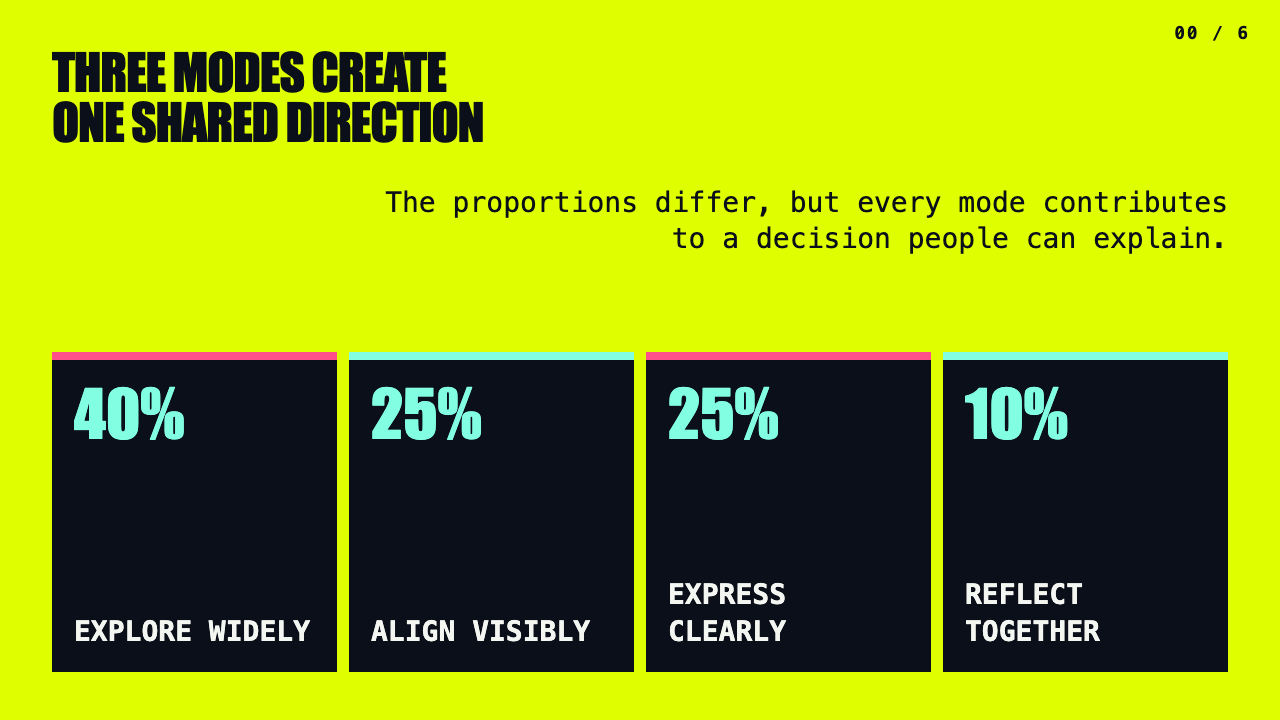
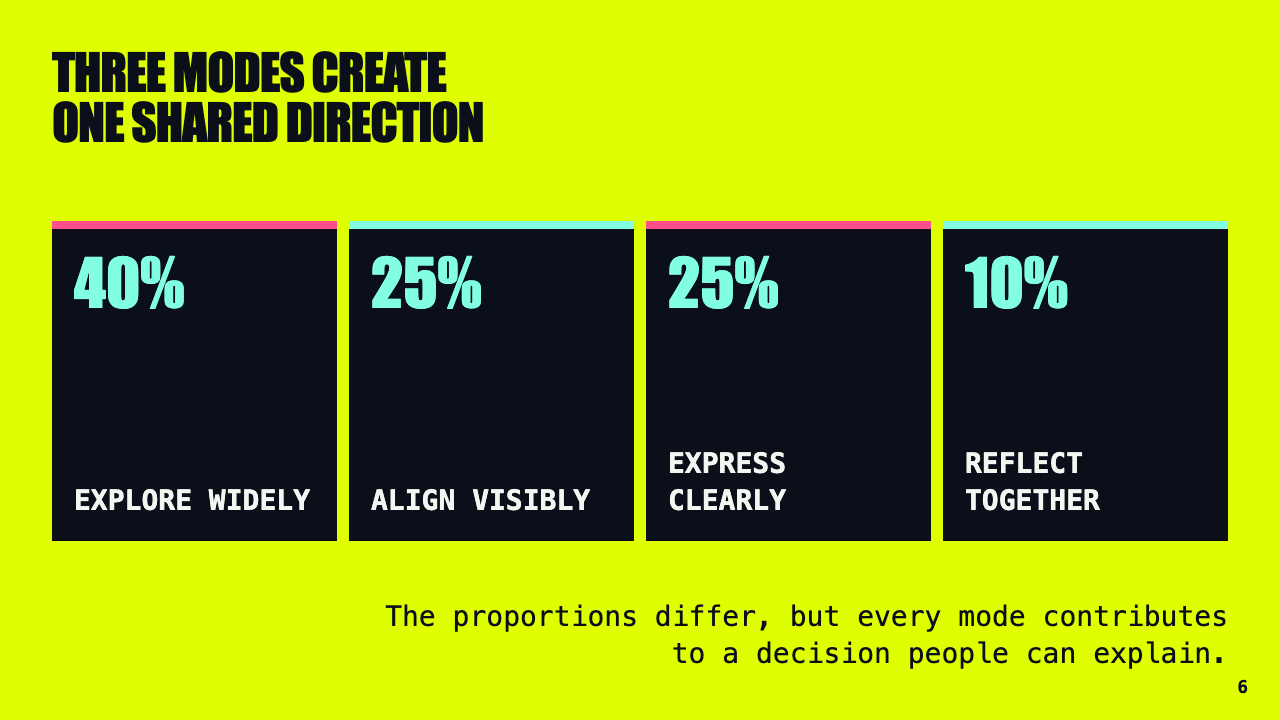
Refine presentation theme palettes, layout consistency, and gallery
Fixes two real rendering bugs already baked into the approved gallery
(Field Notes' title underline overlapping a 2-line subtitle, and
Signal/Compact Signal's data slide leaving a dead gap when no chart is
supplied), standardizes Signal's pagination to match the other three
themes, and codifies each theme's palette so declared colors always
match what actually renders (three colors were declared but unused).

Extends the public gallery to the two missing archetypes (Section,
Diagram) and restructures docs/presentation-themes.md into one
side-by-side comparison table per Slide Archetype instead of a long
stack of single-theme images, so the four themes can be scanned
against each other directly.

While wiring the comparison link into the Discovery theme-choice step,
found Compact Signal was fully built and validated everywhere else but
never actually offered as a choice in discover-presentation's question
list — added it alongside a link to the new comparison gallery.

Claude-Session: https://claude.ai/code/session_01VrnGkkFAn5SoMmdVhA5meG

diff --git a/skills/presentation/generate-slides/themes/compact-signal/theme.css b/skills/presentation/generate-slides/themes/compact-signal/theme.css
@@ -6,12 +6,11 @@
   --compact-mid-blue: #005b91;
   --compact-bright-blue: #009fe3;
   --compact-teal: #00ab84;
-  --compact-red: #e83f53;
   --compact-red-strong: #b4233a;
   --compact-yellow: #f7b715;
   --compact-paper: #f7f7f7;
   --compact-white: #ffffff;
-  --compact-gray: #828282;
+  --compact-gray: #333333;
   --compact-display: "Source Serif Pro", Georgia, serif;
   --compact-body: "Source Sans Pro", Arial, Helvetica, sans-serif;
 }
@@ -59,7 +58,7 @@ section li { margin: 4px 0; }
 .sr-only { position: absolute !important; width: 1px !important; height: 1px !important; overflow: hidden !important; clip: rect(0, 0, 0, 0) !important; }
 .slot-label, .slot-context { color: var(--compact-mid-blue); font-size: 18px; font-weight: 700; letter-spacing: .1em; text-transform: uppercase; }
 .slot-subtitle, .slot-orientation, .slot-takeaway { font-size: 28px; }
-.slot-caption, .slot-attribution { color: #333333; font-size: 20px; }
+.slot-caption, .slot-attribution { color: var(--compact-gray); font-size: 20px; }
 .slot-media { min-width: 0; min-height: 0; overflow: hidden; }
 .slot-media img, .slot-media svg { display: block; width: 100%; height: 100%; object-fit: cover; }
 
@@ -109,14 +108,14 @@ section.archetype-text-plus-image.variation-full-image .slot-caption { display: 
 section.archetype-data { grid-template: auto 1fr auto / 1fr; gap: 14px; background: var(--compact-blue); color: var(--compact-white); }
 section.archetype-data::after { color: var(--compact-yellow); }
 section.archetype-data .slot-label { color: var(--compact-yellow); }
-section.archetype-data .slot-metrics { display: grid; grid-template-columns: repeat(4, minmax(0, 1fr)); gap: 8px; }
+section.archetype-data .slot-metrics { grid-row: 2; display: grid; grid-template-columns: repeat(4, minmax(0, 1fr)); gap: 8px; align-self: center; }
 section.archetype-data .slot-media { grid-row: 2; width: 100%; min-height: 260px; padding: 12px; background: #0b3c61; border: 2px solid var(--compact-bright-blue); }
 section.archetype-data .slot-media img, section.archetype-data .slot-media svg { object-fit: contain; }
 section.archetype-data .metric { display: flex; flex-direction: column; min-height: 260px; padding: 16px; background: var(--compact-white); color: var(--compact-blue); border-top: 5px solid var(--compact-mid-blue); }
 section.archetype-data .metric:nth-child(2n) { border-color: var(--compact-red-strong); }
 section.archetype-data .metric strong { color: var(--compact-mid-blue); font: 700 48px/1 var(--presentation-font-override, var(--compact-display)); }
 section.archetype-data .metric span { margin-top: auto; font-size: 28px; font-weight: 700; }
-section.archetype-data .slot-takeaway { color: var(--compact-white); }
+section.archetype-data .slot-takeaway { grid-row: 3; color: var(--compact-white); }
 
 section.archetype-diagram { grid-template: auto 1fr auto / 1fr; gap: 12px; }
 section.archetype-diagram .slot-heading { max-width: 900px; }

diff --git a/skills/presentation/generate-slides/themes/signal/theme.css b/skills/presentation/generate-slides/themes/signal/theme.css
@@ -7,6 +7,7 @@
   --signal-acid: #dfff00;
   --signal-cyan: #82ffe2;
   --signal-magenta: #ff4f8b;
+  --signal-muted: #c9d2df;
   --signal-display: Impact, "Arial Black", sans-serif;
   --signal-body: Arial, Helvetica, sans-serif;
   --signal-mono: Menlo, Consolas, monospace;
@@ -44,9 +45,9 @@ section [class*="slot-"] { min-width: 0; }
 
 section::after {
   position: absolute;
-  top: 24px;
   right: 30px;
-  content: counter(marpit-slide, decimal-leading-zero) " / " attr(data-marpit-pagination);
+  bottom: 24px;
+  content: attr(data-marpit-pagination);
   color: var(--signal-cyan);
   font: 700 18px/1 var(--presentation-font-override, var(--signal-mono));
   letter-spacing: 0.1em;
@@ -101,7 +102,7 @@ section li { margin: 8px 0; }
 .slot-media { min-width: 0; min-height: 0; overflow: hidden; }
 .slot-media img,
 .slot-media svg { display: block; width: 100%; height: 100%; object-fit: cover; }
-.slot-caption { color: #c9d2df; line-height: 1.25; }
+.slot-caption { color: var(--signal-muted); line-height: 1.25; }
 
 section.archetype-title {
   grid-template: auto 1fr auto / 64% 36%;
@@ -196,7 +197,7 @@ section.archetype-data {
 }
 section.archetype-data::after { color: var(--signal-dark); }
 section.archetype-data .slot-label { color: var(--signal-dark); }
-section.archetype-data .slot-metrics { display: grid; grid-template-columns: repeat(4, minmax(0, 1fr)); gap: 12px; }
+section.archetype-data .slot-metrics { grid-row: 2; display: grid; grid-template-columns: repeat(4, minmax(0, 1fr)); gap: 12px; align-self: center; }
 section.archetype-data .slot-media { grid-row: 2; width: 100%; min-height: 320px; padding: 18px; background: var(--signal-dark); border: 3px solid var(--signal-cyan); }
 section.archetype-data .slot-media img,
 section.archetype-data .slot-media svg { object-fit: contain; filter: none; }
@@ -204,7 +205,7 @@ section.archetype-data .metric { display: flex; flex-direction: column; min-heig
 section.archetype-data .metric:nth-child(2n) { border-color: var(--signal-cyan); }
 section.archetype-data .metric strong { color: var(--signal-cyan); font: 900 64px/1 var(--presentation-font-override, var(--signal-display)); }
 section.archetype-data .metric span { margin-top: auto; font: 700 28px/1.3 var(--presentation-font-override, var(--signal-mono)); text-transform: uppercase; }
-section.archetype-data .slot-takeaway { font-family: var(--presentation-font-override, var(--signal-mono)); text-align: right; }
+section.archetype-data .slot-takeaway { grid-row: 3; font-family: var(--presentation-font-override, var(--signal-mono)); text-align: right; }
 
 section.archetype-diagram { grid-template: auto 1fr auto / 1fr; gap: 18px; }
 section.archetype-diagram .slot-heading { max-width: 1000px; }

diff --git a/skills/presentation/generate-slides/themes/field-notes/theme.css b/skills/presentation/generate-slides/themes/field-notes/theme.css
@@ -8,6 +8,7 @@
   --field-mustard: #8b6a00;
   --field-sage: #63775e;
   --field-light: #f7f2e7;
+  --field-muted: #405444;
   --field-display: Georgia, "Times New Roman", serif;
   --field-body: "Trebuchet MS", Arial, sans-serif;
 }
@@ -93,25 +94,17 @@ section li { margin: 8px 0; }
 .slot-media { min-width: 0; min-height: 0; overflow: hidden; }
 .slot-media img,
 .slot-media svg { display: block; width: 100%; height: 100%; object-fit: cover; }
-.slot-caption { color: #405444; font-family: var(--presentation-font-override, var(--field-display)); font-style: italic; line-height: 1.25; }
+.slot-caption { color: var(--field-muted); font-family: var(--presentation-font-override, var(--field-display)); font-style: italic; line-height: 1.25; }
 
 section.archetype-title {
   grid-template: auto 1fr auto / 58% 42%;
   gap: 24px 40px;
   padding-top: 70px;
 }
-section.archetype-title::before {
-  position: absolute;
-  left: 56px;
-  bottom: 58px;
-  width: 370px;
-  border-top: 8px solid var(--field-mustard);
-  content: "";
-  transform: rotate(-1deg);
-}
 section.archetype-title .slot-label { grid-row: 1; grid-column: 1; align-self: start; }
 section.archetype-title .slot-title { grid-row: 2; grid-column: 1; align-self: center; font-size: 82px; }
 section.archetype-title .slot-subtitle { grid-row: 3; grid-column: 1; max-width: 650px; padding-left: 18px; border-left: 6px solid var(--field-coral); }
+section.archetype-title .slot-subtitle::after { display: block; width: 370px; margin-top: 24px; border-top: 8px solid var(--field-mustard); content: ""; transform: rotate(-1deg); }
 section.archetype-title .slot-media {
   grid-row: 1 / 4;
   grid-column: 2;

diff --git a/skills/presentation/generate-slides/themes/editorial/theme.css b/skills/presentation/generate-slides/themes/editorial/theme.css
@@ -5,8 +5,9 @@
   --editorial-paper: #eee8dc;
   --editorial-ink: #321f2e;
   --editorial-coral: #c63f32;
-  --editorial-gold: #8b7620;
+  --editorial-gold: #d3bd65;
   --editorial-light: #fffaf0;
+  --editorial-muted: #5a4653;
   --editorial-display: Georgia, "Times New Roman", serif;
   --editorial-body: Arial, Helvetica, sans-serif;
 }
@@ -107,7 +108,7 @@ section li { margin: 8px 0; }
 
 .slot-caption {
   padding-top: 10px;
-  color: #5a4653;
+  color: var(--editorial-muted);
   font-family: var(--presentation-font-override, var(--editorial-display));
   font-style: italic;
   line-height: 1.25;
@@ -259,6 +260,6 @@ section.archetype-quotation::before {
   opacity: 0.7;
 }
 section.archetype-quotation::after { color: var(--editorial-light); }
-section.archetype-quotation .slot-context { position: relative; z-index: 1; color: #d3bd65; }
+section.archetype-quotation .slot-context { position: relative; z-index: 1; color: var(--editorial-gold); }
 section.archetype-quotation .slot-quote { position: relative; z-index: 1; max-width: 980px; font-size: 62px; line-height: 1.08; }
 section.archetype-quotation .slot-attribution { position: relative; z-index: 1; margin-top: 28px; color: var(--editorial-light); font-weight: 700; }

diff --git a/skills/presentation/docs/presentation-themes.md b/skills/presentation/docs/presentation-themes.md
@@ -14,113 +14,55 @@ Every example below contains the same content and uses the same production rende
 
 The sample artwork was AI-generated for this comparison and is reused unchanged across all themes. The themes control its placement, crop, framing, and treatment—not its underlying artistic style.
 
+Each row below is one Slide Archetype rendered in all four themes, so you can scan across a row to compare treatments directly, or down a column to see one theme's range.
+
 ### Title
 
-#### Editorial
+| Editorial | Signal | Compact Signal | Field Notes |
+| --- | --- | --- | --- |
+| ![Editorial title slide on a warm cream canvas with an asymmetric serif headline, fine red rule, circular portrait frame, and restrained page furniture](assets/presentation-themes/editorial-title.png) | ![Signal title slide on a near-black technical grid with a condensed uppercase headline, cyan label, pink rule, and sharply angled portrait panel](assets/presentation-themes/signal-title.png) | ![Compact Signal title slide on a dark blue canvas with a compact serif headline, yellow label, teal rule, and supportive portrait panel](assets/presentation-themes/compact-signal-title.png) | ![Field Notes title slide on textured cream paper with a green serif headline, red handwritten label, gold underline, and loosely taped portrait print](assets/presentation-themes/field-notes-title.png) |
 
-![Editorial title slide on a warm cream canvas with an asymmetric serif headline, fine red rule, circular portrait frame, and restrained page furniture](assets/presentation-themes/editorial-title.png)
+### Section break
 
-#### Signal
-
-![Signal title slide on a near-black technical grid with a condensed uppercase headline, cyan label, pink rule, and sharply angled portrait panel](assets/presentation-themes/signal-title.png)
-
-#### Compact Signal
-
-![Compact Signal title slide on a dark blue canvas with a compact serif headline, yellow label, teal rule, and supportive portrait panel](assets/presentation-themes/compact-signal-title.png)
-
-#### Field Notes
-
-![Field Notes title slide on textured cream paper with a green serif headline, red handwritten label, gold underline, and loosely taped portrait print](assets/presentation-themes/field-notes-title.png)
+| Editorial | Signal | Compact Signal | Field Notes |
+| --- | --- | --- | --- |
+| ![Editorial section slide on a warm cream canvas with a thin vertical rule, a large red numeral, and a restrained serif title](assets/presentation-themes/editorial-section.png) | ![Signal section slide with a cyan numeral column, an acid-yellow field, and a bold condensed uppercase title](assets/presentation-themes/signal-section.png) | ![Compact Signal section slide with a yellow numeral column, a dark blue field, and a compact white serif title](assets/presentation-themes/compact-signal-section.png) | ![Field Notes section slide on textured cream paper with a sage-ringed circular numeral badge and a green serif title](assets/presentation-themes/field-notes-section.png) |
 
 ### Plan with bullet points
 
-#### Editorial
-
-![Editorial text-only slide with a large serif heading and a wider numbered bullet list](assets/presentation-themes/editorial-text-only.png)
-
-#### Signal
-
-![Signal text-only slide with a bold condensed heading and a wide numbered bullet list on a dark grid](assets/presentation-themes/signal-text-only.png)
-
-#### Compact Signal
-
-![Compact Signal text-only slide with a compact serif heading and a wide numbered bullet list](assets/presentation-themes/compact-signal-text-only.png)
-
-#### Field Notes
-
-![Field Notes text-only slide with a natural serif heading and a wide arrow-led bullet list on textured paper](assets/presentation-themes/field-notes-text-only.png)
+| Editorial | Signal | Compact Signal | Field Notes |
+| --- | --- | --- | --- |
+| ![Editorial text-only slide with a large serif heading and a wider numbered bullet list](assets/presentation-themes/editorial-text-only.png) | ![Signal text-only slide with a bold condensed heading and a wide numbered bullet list on a dark grid](assets/presentation-themes/signal-text-only.png) | ![Compact Signal text-only slide with a compact serif heading and a wide numbered bullet list](assets/presentation-themes/compact-signal-text-only.png) | ![Field Notes text-only slide with a natural serif heading and a wide arrow-led bullet list on textured paper](assets/presentation-themes/field-notes-text-only.png) |
 
 ### Text plus image
 
-#### Editorial
-
-![Editorial text-plus-image slide with a compact serif heading and bullet list on the left, a clean portrait frame on the right, and an italic caption below](assets/presentation-themes/editorial-text-plus-image.png)
-
-#### Signal
-
-![Signal text-plus-image slide with an uppercase heading and neon rule on the left, a dark grid canvas, and a tall angled portrait treatment on the right](assets/presentation-themes/signal-text-plus-image.png)
-
-#### Compact Signal
-
-![Compact Signal text-plus-image slide with a tightly packed sans-serif bullet list, teal rule, and narrow supportive image panel](assets/presentation-themes/compact-signal-text-plus-image.png)
-
-#### Field Notes
-
-![Field Notes text-plus-image slide with a taped portrait print on the left, serif heading and bullets on the right, and a handwritten-style caption beneath the image](assets/presentation-themes/field-notes-text-plus-image.png)
+| Editorial | Signal | Compact Signal | Field Notes |
+| --- | --- | --- | --- |
+| ![Editorial text-plus-image slide with a compact serif heading and bullet list on the left, a clean portrait frame on the right, and an italic caption below](assets/presentation-themes/editorial-text-plus-image.png) | ![Signal text-plus-image slide with an uppercase heading and neon rule on the left, a dark grid canvas, and a tall angled portrait treatment on the right](assets/presentation-themes/signal-text-plus-image.png) | ![Compact Signal text-plus-image slide with a tightly packed sans-serif bullet list, teal rule, and narrow supportive image panel](assets/presentation-themes/compact-signal-text-plus-image.png) | ![Field Notes text-plus-image slide with a taped portrait print on the left, serif heading and bullets on the right, and a handwritten-style caption beneath the image](assets/presentation-themes/field-notes-text-plus-image.png) |
 
 ### Full-bleed image
 
-#### Editorial
-
-![Editorial full-image slide with a serif title over a full-bleed landscape image and a warm coral overlay](assets/presentation-themes/editorial-full-image.png)
-
-#### Signal
-
-![Signal full-image slide with an uppercase title over a full-bleed landscape image, dark grid, and acid rule](assets/presentation-themes/signal-full-image.png)
-
-#### Compact Signal
-
-![Compact Signal full-image slide with a serif title over a full-bleed landscape image and dark blue overlay](assets/presentation-themes/compact-signal-full-image.png)
-
-#### Field Notes
-
-![Field Notes full-image slide with a serif title over a full-bleed landscape image and natural green overlay](assets/presentation-themes/field-notes-full-image.png)
+| Editorial | Signal | Compact Signal | Field Notes |
+| --- | --- | --- | --- |
+| ![Editorial full-image slide with a serif title over a full-bleed landscape image and a warm coral overlay](assets/presentation-themes/editorial-full-image.png) | ![Signal full-image slide with an uppercase title over a full-bleed landscape image, dark grid, and acid rule](assets/presentation-themes/signal-full-image.png) | ![Compact Signal full-image slide with a serif title over a full-bleed landscape image and dark blue overlay](assets/presentation-themes/compact-signal-full-image.png) | ![Field Notes full-image slide with a serif title over a full-bleed landscape image and natural green overlay](assets/presentation-themes/field-notes-full-image.png) |
 
 ### Data
 
-#### Editorial
+| Editorial | Signal | Compact Signal | Field Notes |
+| --- | --- | --- | --- |
+| ![Editorial data slide with a large serif heading in a narrow left column and four measured cream metric cells arranged as a red-ruled grid](assets/presentation-themes/editorial-data.png) | ![Signal data slide with a fluorescent yellow canvas, condensed black heading, and four near-black metric cards separated by cyan and pink accents](assets/presentation-themes/signal-data.png) | ![Compact Signal data slide with a dark blue canvas, four compact white metric cards, and blue chart panel](assets/presentation-themes/compact-signal-data.png) | ![Field Notes data slide with a green serif heading, gold underline, italic takeaway, and four softly colored hand-drawn oval metrics](assets/presentation-themes/field-notes-data.png) |
 
-![Editorial data slide with a large serif heading in a narrow left column and four measured cream metric cells arranged as a red-ruled grid](assets/presentation-themes/editorial-data.png)
+### Diagram
 
-#### Signal
-
-![Signal data slide with a fluorescent yellow canvas, condensed black heading, and four near-black metric cards separated by cyan and pink accents](assets/presentation-themes/signal-data.png)
-
-#### Compact Signal
-
-![Compact Signal data slide with a dark blue canvas, four compact white metric cards, and blue chart panel](assets/presentation-themes/compact-signal-data.png)
-
-#### Field Notes
-
-![Field Notes data slide with a green serif heading, gold underline, italic takeaway, and four softly colored hand-drawn oval metrics](assets/presentation-themes/field-notes-data.png)
+| Editorial | Signal | Compact Signal | Field Notes |
+| --- | --- | --- | --- |
+| ![Editorial diagram slide with an aubergine serif heading and a protected cream diagram panel holding rounded, colored process boxes](assets/presentation-themes/editorial-diagram.png) | ![Signal diagram slide with a condensed white heading on a dark grid and a cyan-bordered protected diagram panel](assets/presentation-themes/signal-diagram.png) | ![Compact Signal diagram slide with a dark blue serif heading and a blue-bordered protected diagram panel](assets/presentation-themes/compact-signal-diagram.png) | ![Field Notes diagram slide on textured paper with a green serif heading and a drop-shadowed, gently tilted diagram panel](assets/presentation-themes/field-notes-diagram.png) |
 
 ### Quotation
 
-#### Editorial
-
-![Editorial quotation slide with an aubergine canvas, large cream serif quotation, pale vertical rule, small gold label, and restrained attribution](assets/presentation-themes/editorial-quotation.png)
-
-#### Signal
-
-![Signal quotation slide with a dark grid, oversized condensed white quotation, cyan label, pale vertical bar, and a vivid pink attribution strip](assets/presentation-themes/signal-quotation.png)
-
-#### Compact Signal
-
-![Compact Signal quotation slide with a dark blue canvas, compact white serif quotation, blue context label, and red attribution strip](assets/presentation-themes/compact-signal-quotation.png)
-
-#### Field Notes
-
-![Field Notes quotation slide on textured paper with a centered green serif quotation, pale blue rule, gold underline, red handwritten label, and botanical decoration](assets/presentation-themes/field-notes-quotation.png)
+| Editorial | Signal | Compact Signal | Field Notes |
+| --- | --- | --- | --- |
+| ![Editorial quotation slide with an aubergine canvas, large cream serif quotation, pale vertical rule, small gold label, and restrained attribution](assets/presentation-themes/editorial-quotation.png) | ![Signal quotation slide with a dark grid, oversized condensed white quotation, cyan label, pale vertical bar, and a vivid pink attribution strip](assets/presentation-themes/signal-quotation.png) | ![Compact Signal quotation slide with a dark blue canvas, compact white serif quotation, blue context label, and red attribution strip](assets/presentation-themes/compact-signal-quotation.png) | ![Field Notes quotation slide on textured paper with a centered green serif quotation, pale blue rule, gold underline, red handwritten label, and botanical decoration](assets/presentation-themes/field-notes-quotation.png) |
 
 ## Choosing a theme
 

diff --git a/skills/presentation/discover-presentation/QUESTIONS.md b/skills/presentation/discover-presentation/QUESTIONS.md
@@ -32,7 +32,10 @@ Store these as `audience.experience_level`, `audience.goal`, `audience.top_conce
 11. **Presentation Theme** — Immediately after Visual preference, present these choices in order using descriptions translated into the presentation language:
    - **Editorial** (`editorial`, recommended) — “Warm, typographic, and composed like a modern magazine.”
    - **Signal** (`signal`) — “Bold, high-contrast, and structured for energy, systems, and data.”
+   - **Compact Signal** (`compact-signal`) — “Compact, clear, and high-contrast for information-dense stories with supportive or full-bleed imagery.”
    - **Field Notes** (`field-notes`) — “Tactile, natural, and shaped like a documented working session.”
+
+Point the user at the side-by-side visual comparison if they want to see the themes before choosing: [Compare the themes](../docs/presentation-themes.md#compare-the-themes).
 
 Theme selection is required for new projects. Do not infer it from topic, audience, or occasion. Do not proactively ask about fonts. If the user explicitly volunteers a particular font family, capture it as an External Font Override with the exact family and an optional source URL that the user approves.
 
